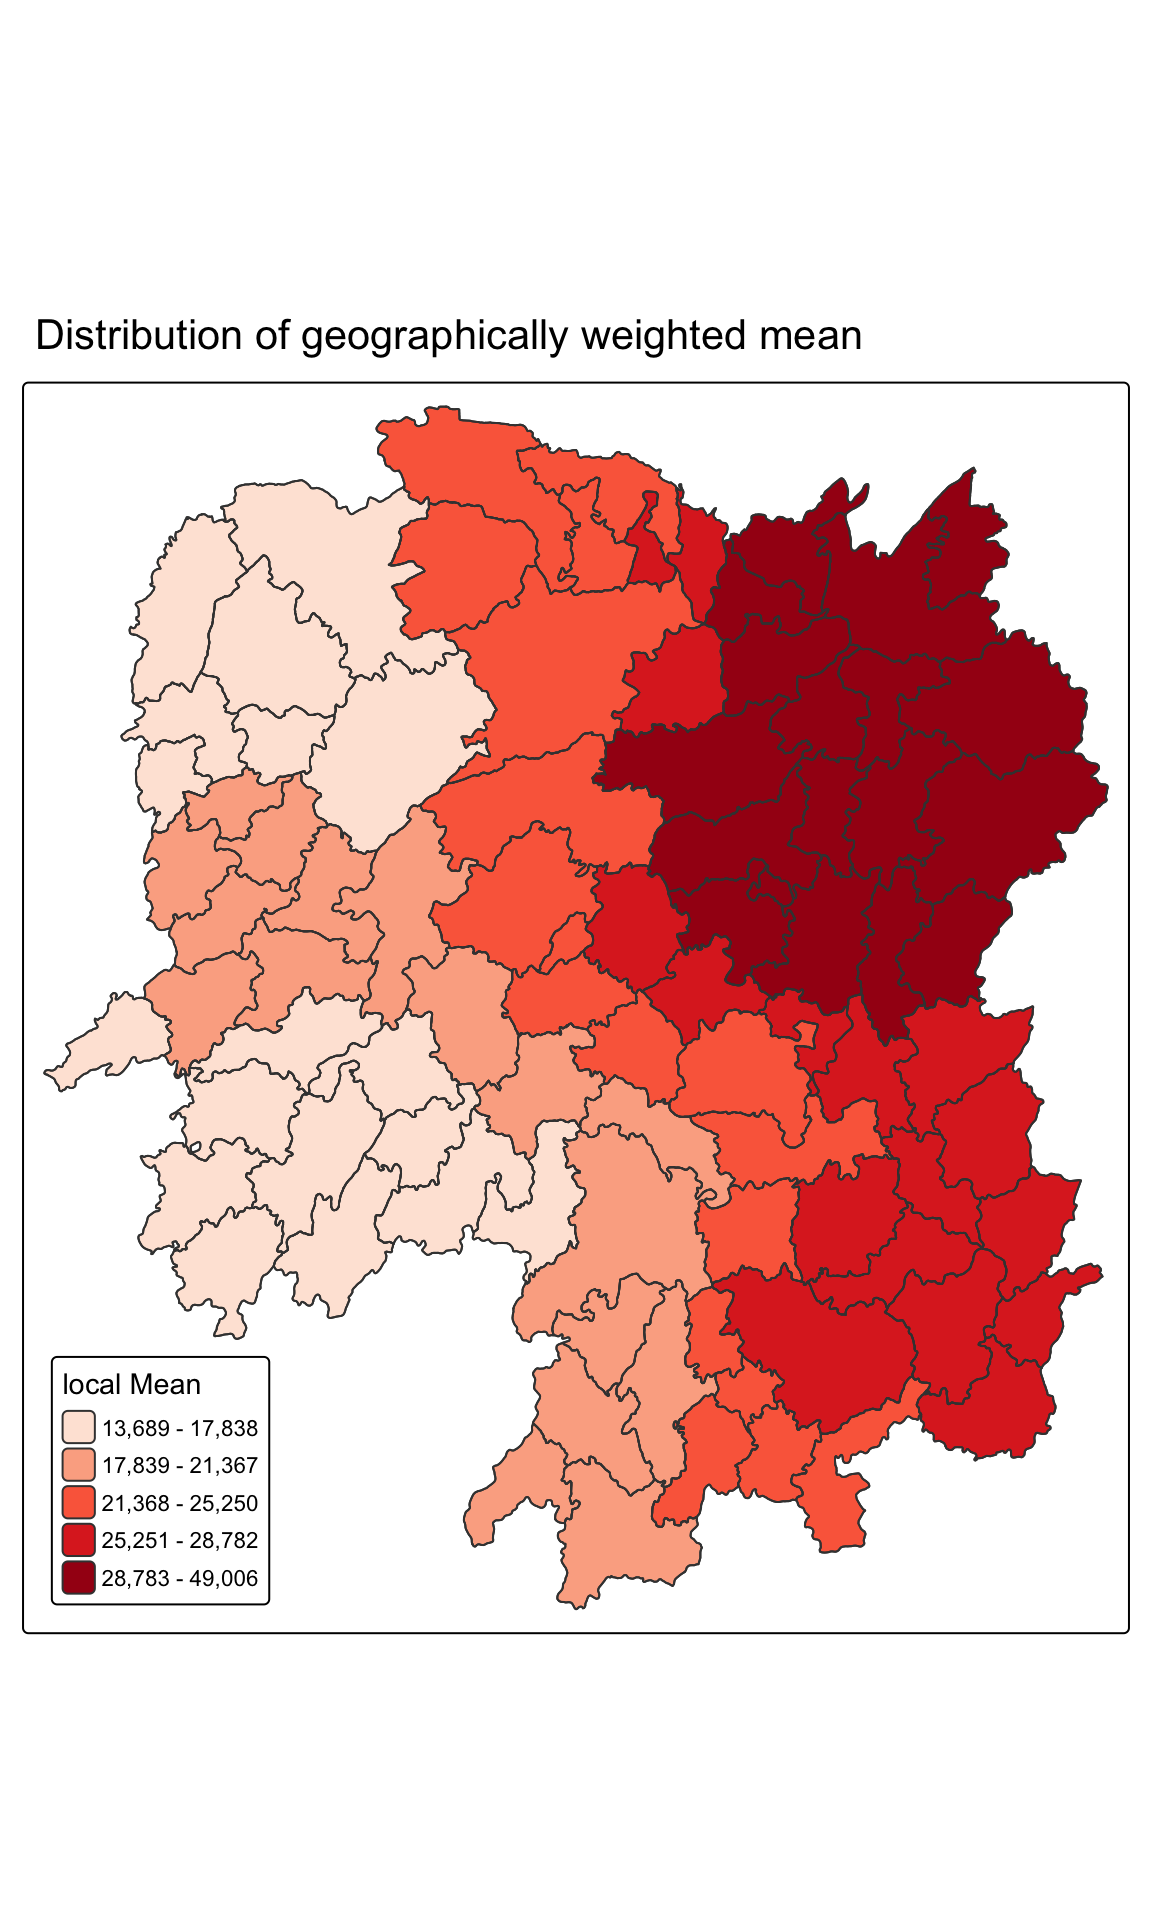
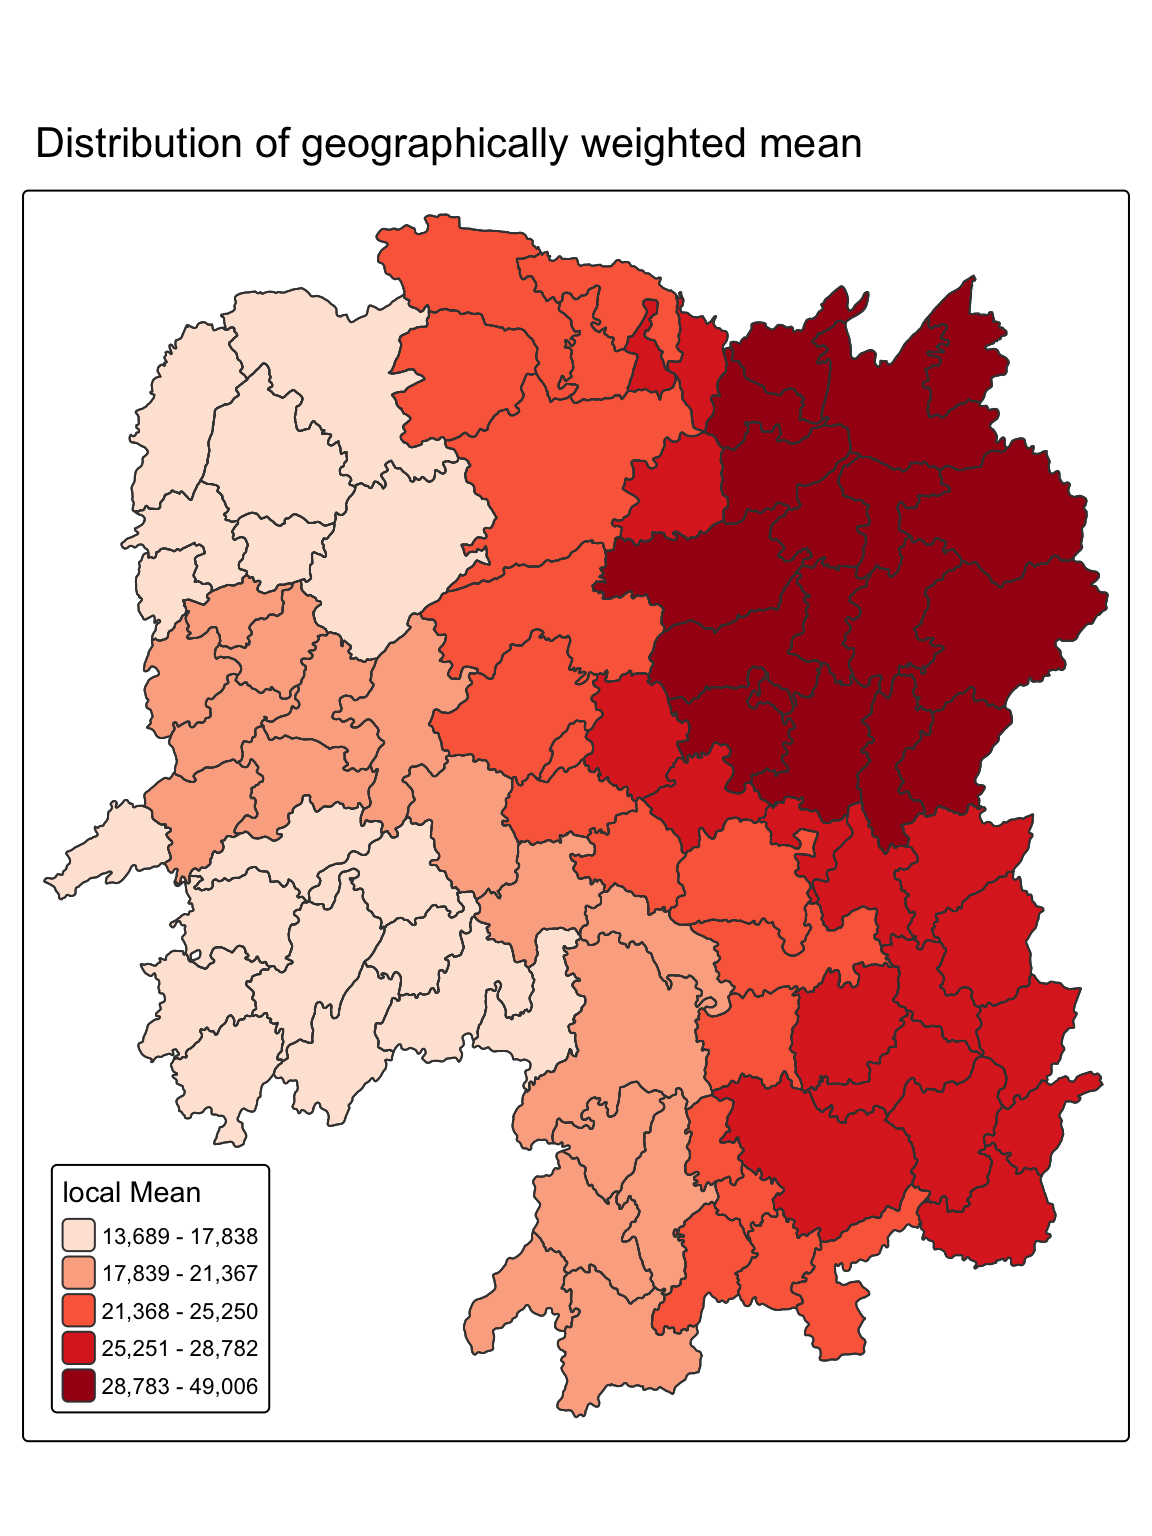
In-class Exercise 4 part 2

Changed region(s): [[0.0312, 0.0625, 0.9688, 0.9375]]

diff --git a/_site/index.html b/_site/index.html
@@ -804,7 +804,7 @@ window.Quarto = {
 
 <div class="quarto-listing quarto-listing-container-grid" id="listing-listing">
 <div class="list grid quarto-listing-cols-3">
-<div class="g-col-1" data-index="0" data-listing-date-sort="1789747200000" data-listing-file-modified-sort="1789804281697" data-listing-date-modified-sort="1789804281000" data-listing-reading-time-sort="4" data-listing-word-count-sort="791">
+<div class="g-col-1" data-index="0" data-listing-date-sort="1789747200000" data-listing-file-modified-sort="1789804332783" data-listing-date-modified-sort="1789804332000" data-listing-reading-time-sort="4" data-listing-word-count-sort="763">
 <a href="./In-class_Ex/In-class_Ex04/In-class_Ex04.html" class="quarto-grid-link">
 <div class="quarto-grid-item card h-100 card-left">
 <p class="card-img-top"><img loading='lazy' src="In-class_Ex/In-class_Ex04/In-class_Ex04_files/figure-html/unnamed-chunk-5-1.png" style="height: 150px;"  class="thumbnail-image card-img"/></p>

diff --git a/_site/In-class_Ex/In-class_Ex04/In-class_Ex04.html b/_site/In-class_Ex/In-class_Ex04/In-class_Ex04.html
@@ -766,8 +766,6 @@ Fixed bandwidth: 160.5517 AICc value: 1919.391 </code></pre>
 </div>
 </div>
 </div>
-<pre><code>          )
-          ))</code></pre>
 
 
 </section>
